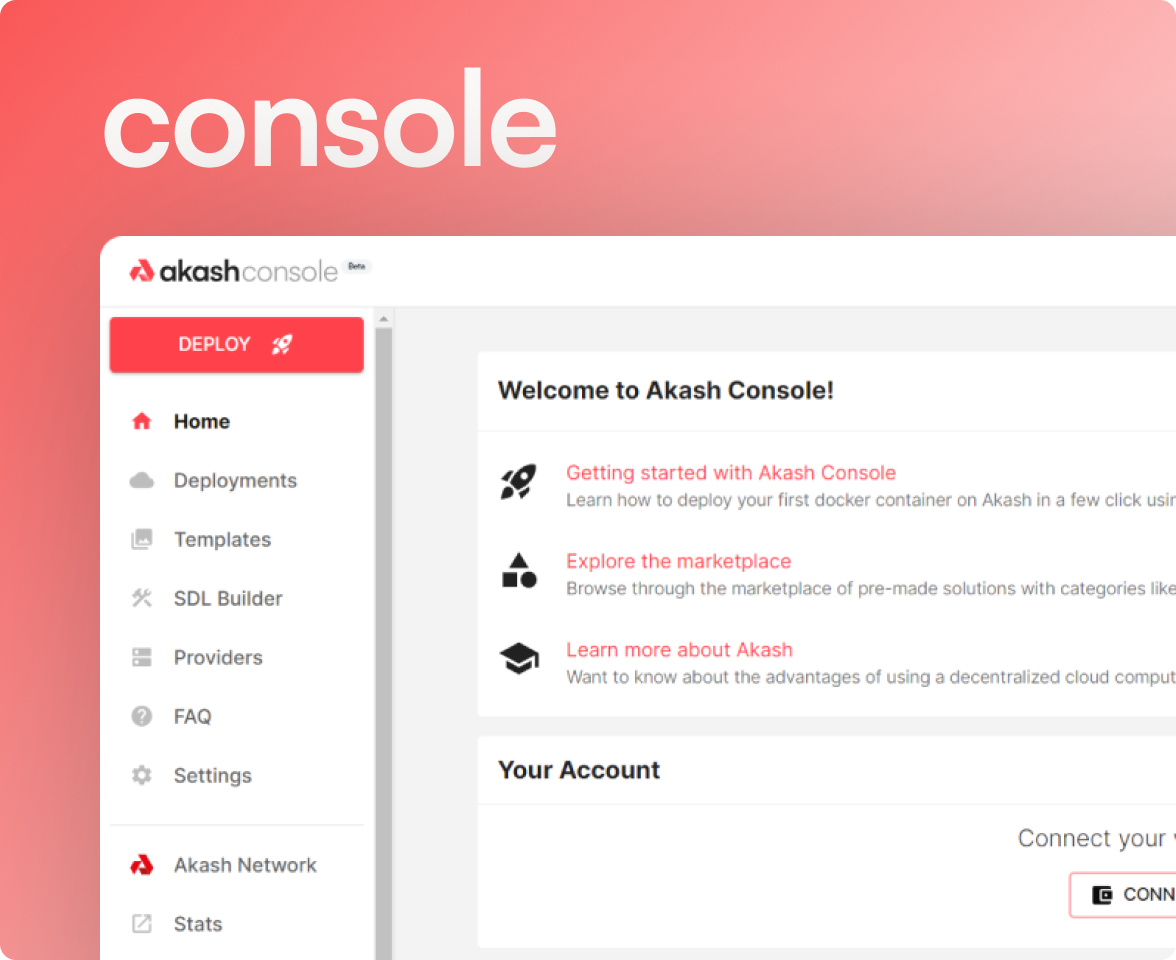
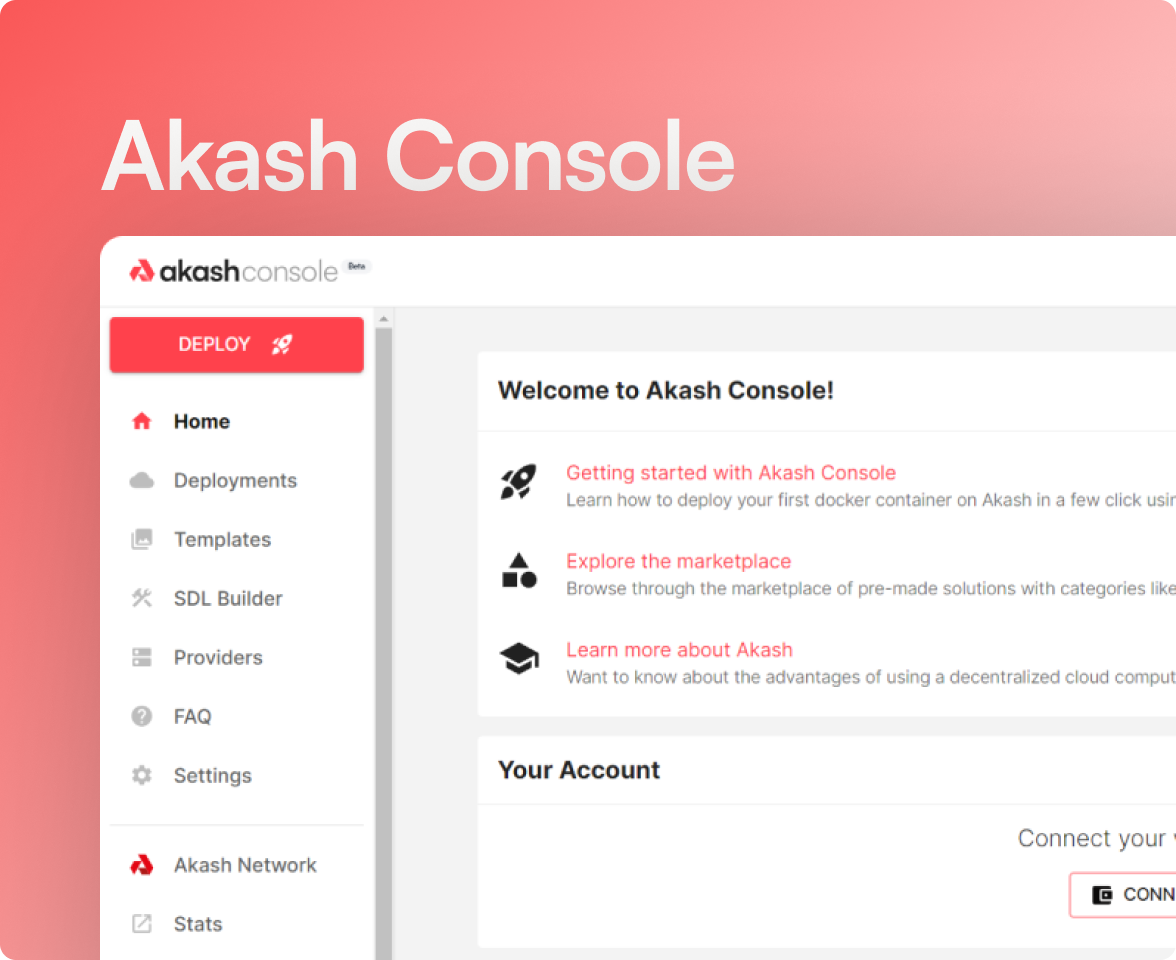
Update Akash Console title and link

Changed region(s): [[0.0918, 0.0625, 0.6429, 0.2188]]

diff --git a/src/content/Docs/_sequence.ts b/src/content/Docs/_sequence.ts
@@ -122,6 +122,32 @@ export const docsSequence = [
         ],
       },
       {
+        label: "Other Resources",
+        subItems: [
+          {
+            label: "Experimental",
+            subItems: [
+              { label: "AMD GPU Support" },
+              { label: "Akash Provider Streamlined Build with Rancher K3s" },
+              {
+                label: "Omnibus",
+              },
+              {
+                label: "Hardware and Software Recommendations",
+              },
+              {
+                label: "Streamlined Steps",
+              },
+            ],
+          },
+          { label: "Security" },
+          { label: "Containers" },
+          { label: "Marketplace" },
+          { label: "Payments" },
+          { label: "Authentication" },
+        ],
+      },
+      {
         type: "Header",
         label: "Engineering Docs",
       },
@@ -203,32 +229,6 @@ export const docsSequence = [
       },
       {
         label: "Akash API",
-      },
-      {
-        label: "Other Resources",
-        subItems: [
-          {
-            label: "Experimental",
-            subItems: [
-              { label: "AMD GPU Support" },
-              { label: "Akash Provider Streamlined Build with Rancher K3s" },
-              {
-                label: "Omnibus",
-              },
-              {
-                label: "Hardware and Software Recommendations",
-              },
-              {
-                label: "Streamlined Steps",
-              },
-            ],
-          },
-          { label: "Security" },
-          { label: "Containers" },
-          { label: "Marketplace" },
-          { label: "Payments" },
-          { label: "Authentication" },
-        ],
       },
     ],
   },

diff --git a/src/content/Deploy_Homepage/index.md b/src/content/Deploy_Homepage/index.md
@@ -2,7 +2,7 @@
 pageTitle: Customize your Akash experience with the perfect tool
 
 heroSection:
-  title: Streamline deployment with Console
+  title: Streamline deployment with Akash Console
   description: Effortless application deployment for the decentralized era.
   heroImage: "./assets/hero-image.png"
   featureList:
@@ -10,7 +10,7 @@ heroSection:
     - Say no to complex processes and yes to one-click deployment
     - Adapt to your business needs in real-time, ensuring optimal performance and cost efficiency
   button:
-    label: Launch Console
+    label: Launch Akash Console
     link: "https://console.akash.network/"
     enable: true
 
@@ -23,8 +23,8 @@ cloudmosResourcesSection:
       link: "https://console.akash.network/templates"
       linkIcon: true
       linkLabel: "View More"
-    - title: Cloudmos Documentation
-      description: Cloudmos Deploy Tool is a web based application which simplifies the deployment process on the Akash Network.
+    - title: Akash Console Documentation
+      description: Console Deploy Tool is a web based application which simplifies the deployment process on the Akash Network.
       badge: "./assets/book-stack.svg"
       link: "/docs/deployments/cloudmos-deploy/"
       linkIcon: true

diff --git a/src/content/Docs/deployments/akash-console/index.md b/src/content/Docs/deployments/akash-console/index.md
@@ -10,7 +10,7 @@ Akash Console Tool is a web based application which simplifies the deployment pr
 
 This guide will cover the following topics:
 
-- [Akash Console Access](#cloudmos-deploy-access)
+- [Akash Console Access](#akash-console-access)
 - [Minecraft Deployment Example](#minecraft-deployment-example)
 - [Manage Deployments](#manage-deployments)
 - [Define a custom RPC node](#custom-rpc-node)
